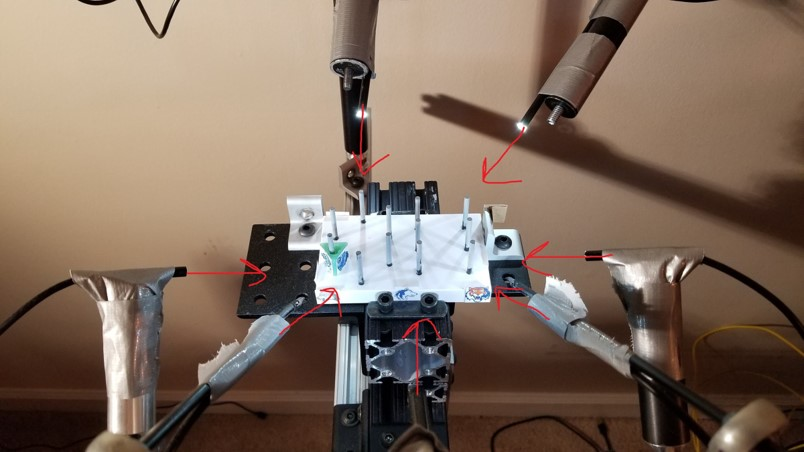
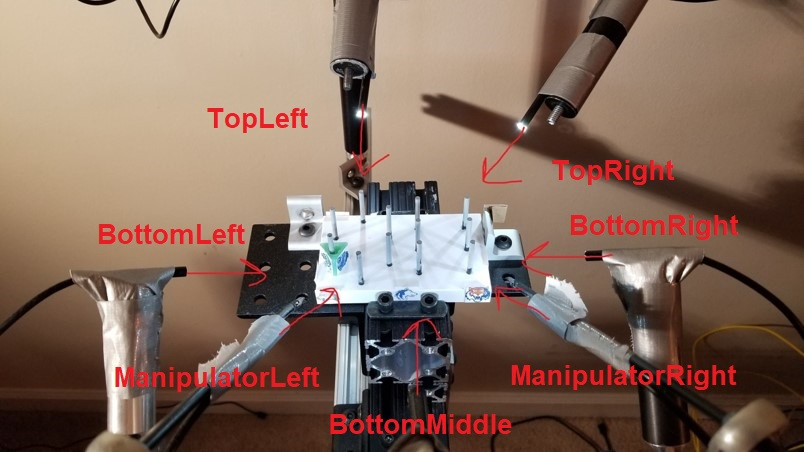
fix ims

diff --git a/README.md b/README.md
@@ -51,7 +51,7 @@ manipulator cam after calib
 ![manipulator cam after calib](__images/dyncam2.png)
 
 virtual pegboard locations
-![virtual pegboard locations](__images/pegcalib.jpg)
+![virtual pegboard locations](__images/pegcalibnames.jpg)
 
 vive tracker positioning
 ![vive tracker positioning](__images/markercalib.jpg)
